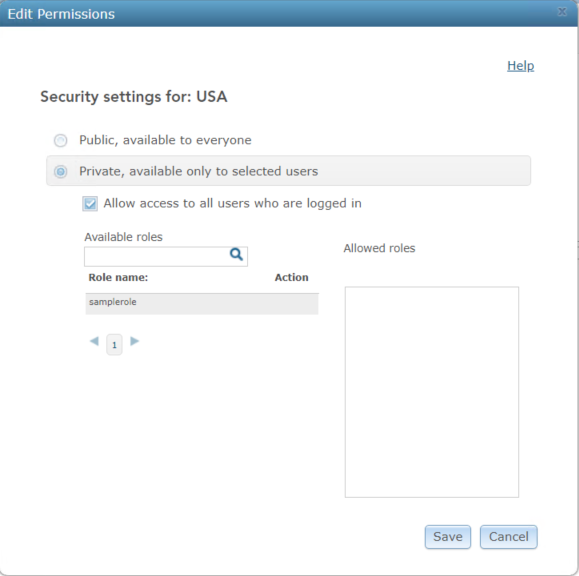
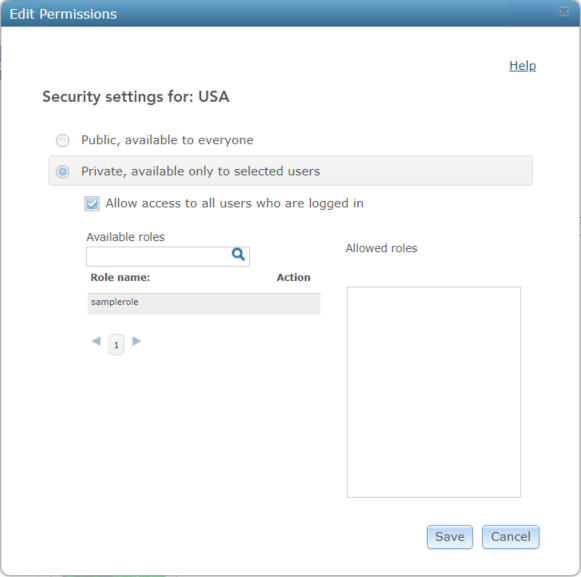
Update

diff --git a/Samples/java/soi/OperationAccessSOI/ReadMe.md b/Samples/java/soi/OperationAccessSOI/ReadMe.md
@@ -4,7 +4,7 @@ order: 11
 
 # Java operation access SOI
 
-This sample illustrates how to add an extra layer of security control for individual operations that users are allowed to access. This SOI only allows three operations - [**Find**](https://developers.arcgis.com/rest/services-reference/find.htm), [**Identify**](https://developers.arcgis.com/rest/services-reference/identify-map-service-.htm), and [**Export Map**](https://developers.arcgis.com/rest/services-reference/export-map.htm) to certain groups of users that are defined in the code, and blocks unauthorized users to access those operations. It also blocks all other service operations.
+This sample illustrates how to add an extra layer of security control for individual operations that users are allowed to access. This SOI only allows three operations - [**Find**](https://developers.arcgis.com/rest/services-reference/find.htm), [**Identify**](https://developers.arcgis.com/rest/services-reference/identify-map-service-.htm), and [**Export Map**](https://developers.arcgis.com/rest/services-reference/export-map.htm) to certain users that are defined in the code, and blocks unauthorized users to access those operations. It also blocks all other service operations.
 
 Deploying the SOI from the .soe file (`../OperationAccessSOI/lib/OperationAccessSOI_ent.soe`) does not require you to open the IDE. However, you can load the project (`../OperationAccessSOI`) in the IDE to debug, modify, and rebuild the SOI project.
 